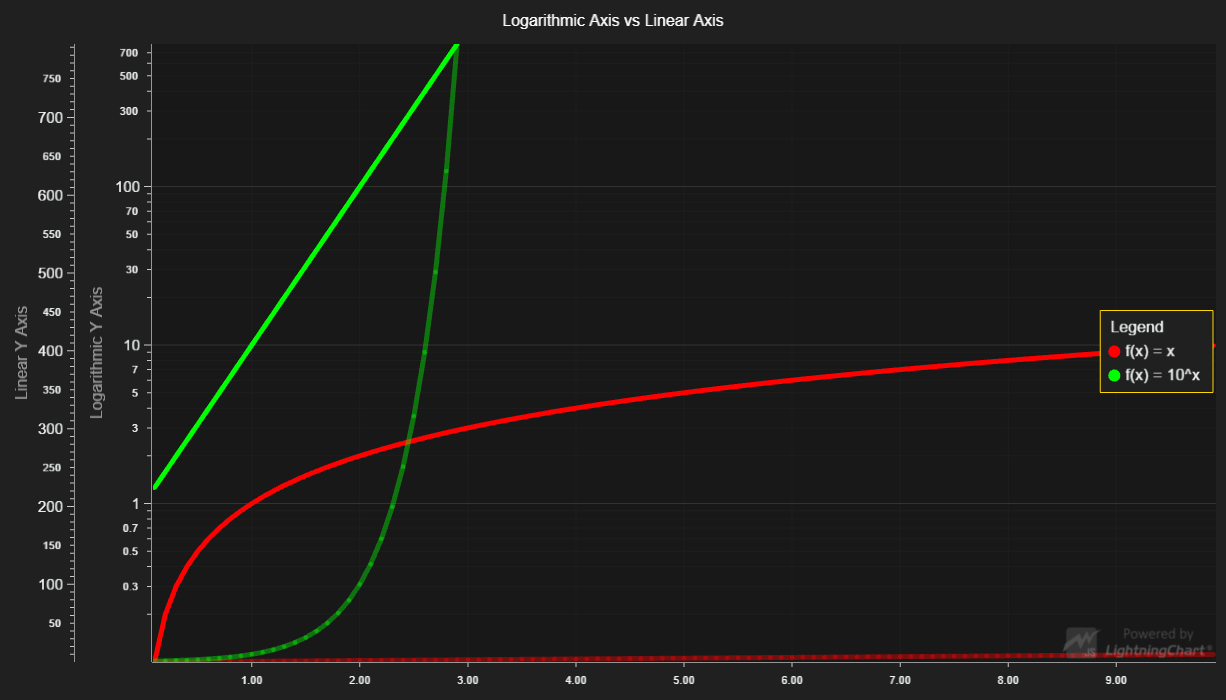
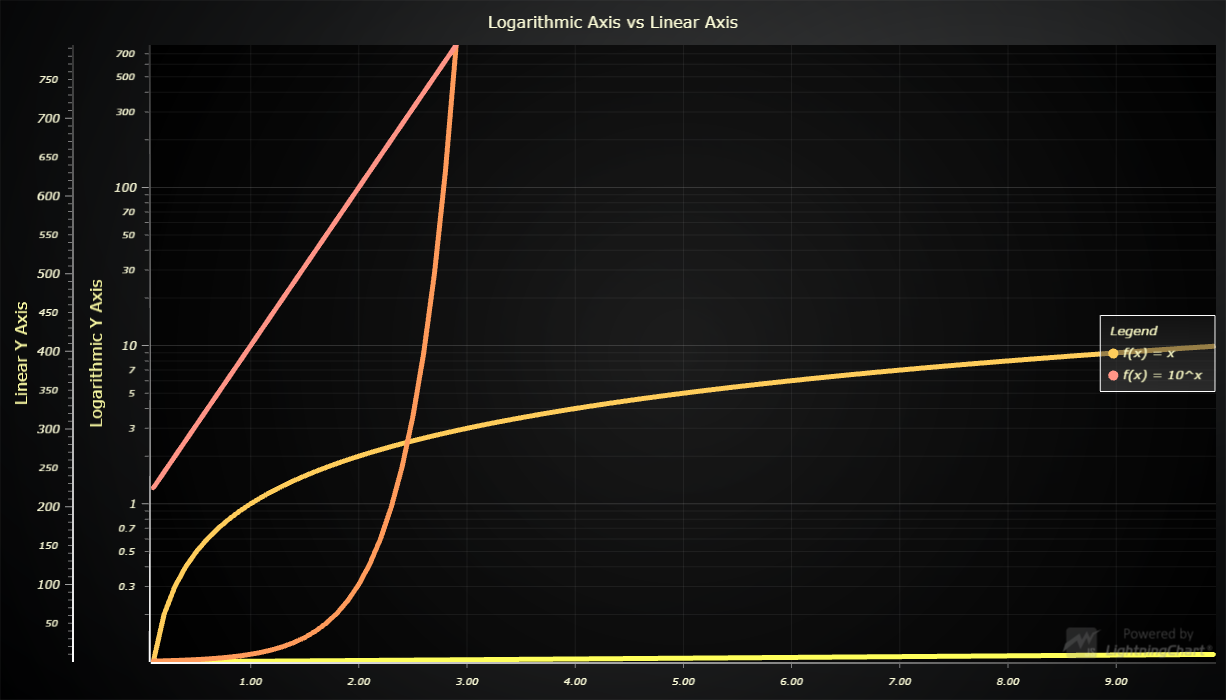
Update LCJS version

diff --git a/src/index.js b/src/index.js
@@ -7,11 +7,9 @@ const lcjs = require('@arction/lcjs')
 // Extract required parts from LightningChartJS.
 const {
     lightningChart,
-    DataPatterns,
     ColorHEX,
     SolidLine,
     SolidFill,
-    UIOrigins,
     emptyLine,
     Themes
 } = lcjs
@@ -23,7 +21,7 @@ const {
 
 // Initialize chart.
 const chart = lightningChart().ChartXY({
-    // theme: Themes.dark
+    // theme: Themes.darkGold
     // Specify default Y Axis as logarithmic.
     defaultAxisY: {
         type: 'logarithmic',
@@ -54,12 +52,17 @@ const yAxisLinear = chart.addAxisY({
 
 // Add LegendBox.
 const legend = chart.addLegendBox()
+    // Dispose example UI elements automatically if they take too much space. This is to avoid bad UI on mobile / etc. devices.
+    .setAutoDispose({
+        type: 'max-width',
+        maxWidth: 0.30,
+    })
 
 // Graph 2 functions on both Axes.
 const xStep = 0.1
 const functions = [
-    { label: 'f(x) = x', xStart: xStep, xEnd: 10, Y: (x) => x, color: ColorHEX('#f00') },
-    { label: 'f(x) = 10^x', xStart: xStep, xEnd: 3.0, Y: (x) => 10 ** x, color: ColorHEX('#0f0') },
+    { label: 'f(x) = x', xStart: xStep, xEnd: 10, Y: (x) => x },
+    { label: 'f(x) = 10^x', xStart: xStep, xEnd: 3.0, Y: (x) => 10 ** x },
 ]
 
 // Generate function data in predefined X values range.
@@ -87,10 +90,7 @@ Promise.all(functions.map(info =>
                         .addRow('Y', '', y.toFixed(1))
                     )
                     .setName(info.label)
-                    .setStrokeStyle(new SolidLine({
-                        thickness: iAxis === 0 ? 5 : 5,
-                        fillStyle: new SolidFill({ color: iAxis === 0 ? info.color.setA(100) : info.color })
-                    }))
+                    .setStrokeStyle((style) => style.setThickness(5))
                     .add(dataSet)
 
                 console.log(series.getBoundaries())

diff --git a/webpack.config.js b/webpack.config.js
@@ -69,7 +69,8 @@ module.exports = {
         }),
         new CopyWebpackPlugin({
             patterns: [
-                { from: './assets/**/*', to: './examples/assets', flatten: true, noErrorOnMissing: true }
+                { from: './assets/**/*', to: './examples/assets', flatten: true, noErrorOnMissing: true },
+                { from: './node_modules/@arction/lcjs/dist/resources', to: 'resources', noErrorOnMissing: true },
             ]
         })
     ]

diff --git a/README.md b/README.md
@@ -71,10 +71,10 @@ Direct developer email support can be purchased through a [Support Plan][4] or b
 © Arction Ltd 2009-2020. All rights reserved.
 
 
-[XY cartesian chart]: https://www.arction.com/lightningchart-js-api-documentation/v3.0.1/classes/chartxy.html
-[Data patterns]: https://www.arction.com/lightningchart-js-api-documentation/v3.0.1/globals.html#datapatterns
-[Color HEX factory]: https://www.arction.com/lightningchart-js-api-documentation/v3.0.1/globals.html#colorhex
-[Solid Line style]: https://www.arction.com/lightningchart-js-api-documentation/v3.0.1/classes/solidline.html
-[Solid Fill style]: https://www.arction.com/lightningchart-js-api-documentation/v3.0.1/classes/solidfill.html
-[UI origins]: https://www.arction.com/lightningchart-js-api-documentation/v3.0.1/globals.html#uiorigins
+[XY cartesian chart]: https://www.arction.com/lightningchart-js-api-documentation/v3.1.0/classes/chartxy.html
+[Data patterns]: https://www.arction.com/lightningchart-js-api-documentation/v3.1.0/globals.html#datapatterns
+[Color HEX factory]: https://www.arction.com/lightningchart-js-api-documentation/v3.1.0/globals.html#colorhex
+[Solid Line style]: https://www.arction.com/lightningchart-js-api-documentation/v3.1.0/classes/solidline.html
+[Solid Fill style]: https://www.arction.com/lightningchart-js-api-documentation/v3.1.0/classes/solidfill.html
+[UI origins]: https://www.arction.com/lightningchart-js-api-documentation/v3.1.0/globals.html#uiorigins
 
